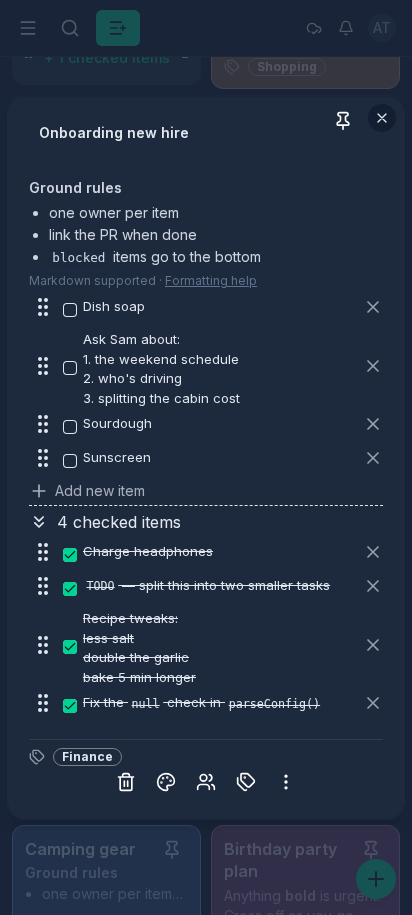
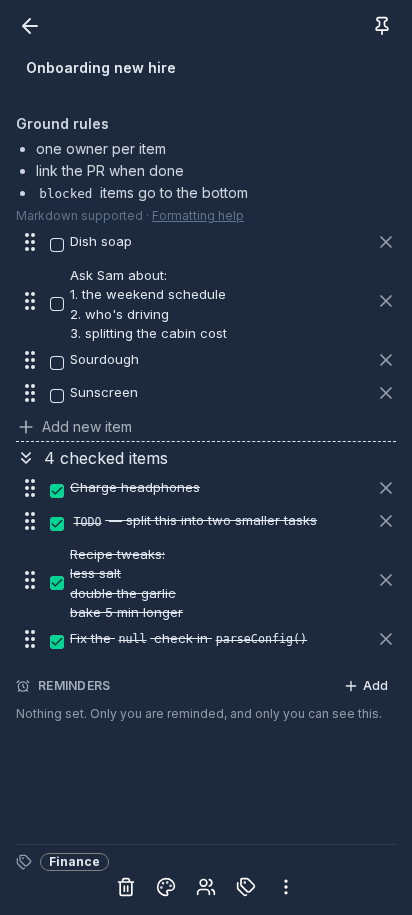
Chunk m2

diff --git a/CheckCheck/frontend/tests/e2e/touch-editor.spec.ts b/CheckCheck/frontend/tests/e2e/touch-editor.spec.ts
@@ -1,0 +1,150 @@
+/**
+ * Full-screen card editor on phones (docs/plans/MOBILE_EDITOR.md, M2).
+ *
+ * Runs in the "mobile" Playwright project (Pixel 7). Below the `sm` breakpoint
+ * the editor fills the screen and carries a header bar: a 44px back arrow
+ * (aria-label "Close") on the left, pin and sync state on the right, the title
+ * underneath. These tests guard that the close control and the title stay
+ * reachable however long the card is and while the keyboard is open.
+ *
+ * The keyboard is simulated by halving the viewport height after focusing an
+ * item. That is exactly what `interactive-widget=resizes-content` makes Android
+ * Chrome do; iOS Safari (which goes through useVisualViewport instead) needs
+ * the on-device check in the plan's section 5.
+ */
+import { test, expect, type Locator, type Page } from "@playwright/test";
+
+async function apiPost(page: Page, path: string, body: object) {
+  const res = await page.request.post(path, {
+    data: body,
+    headers: { "Content-Type": "application/json" },
+  });
+  expect(res.ok(), `POST ${path} failed: ${res.status()}`).toBeTruthy();
+  return res.json();
+}
+
+const editorDialog = (page: Page) => page.locator('[role="dialog"]:has(.checklist)');
+const titleField = (dialog: Locator) =>
+  dialog.locator('textarea[placeholder="Enter a checklist title..."]');
+const itemRows = (dialog: Locator) => dialog.getByTestId("item-row");
+
+test.describe("touch editor (full screen)", () => {
+  const cleanup: string[] = [];
+  test.afterEach(async ({ page }) => {
+    for (const id of cleanup) await page.request.delete(`/api/checklist/${id}`).catch(() => {});
+    cleanup.length = 0;
+    // Close the board's SSE stream before teardown (see checklist.spec.ts).
+    await page.goto("about:blank").catch(() => {});
+  });
+
+  async function openCard(page: Page, name: string, items = 0) {
+    const cl = await apiPost(page, "/api/checklist", { name });
+    cleanup.push(cl.id);
+    for (let i = 1; i <= items; i++) {
+      await apiPost(page, `/api/checklist/${cl.id}/item`, { text: `Item ${i}` });
+    }
+    await page.goto("/");
+    await page.waitForSelector("[data-testid=checklist-board]");
+    await page.locator("[data-testid=card-title]", { hasText: name }).first().tap();
+    const dialog = editorDialog(page);
+    await expect(dialog).toBeVisible({ timeout: 5_000 });
+    await expect(page).toHaveURL(/\/card\//);
+    // Measure only after the modal's scale-in animation has settled.
+    await dialog.evaluate((el) => Promise.all(el.getAnimations().map((a) => a.finished)));
+    if (items) await expect(itemRows(dialog)).toHaveCount(items, { timeout: 10_000 });
+    return dialog;
+  }
+
+  test("the editor fills the screen with a 44px back arrow clear of the pin", async ({ page }) => {
+    const dialog = await openCard(page, `TE-Header-${Date.now()}`);
+    const viewport = page.viewportSize()!;
+
+    const box = (await dialog.boundingBox())!;
+    expect(Math.round(box.x)).toBe(0);
+    expect(Math.round(box.y)).toBe(0);
+    expect(Math.round(box.width)).toBe(viewport.width);
+    expect(Math.round(box.height)).toBe(viewport.height);
+
+    const close = dialog.getByRole("button", { name: "Close" });
+    // Exactly one close control: the desktop X is not rendered on phones.
+    await expect(close).toHaveCount(1);
+    await expect(close).toBeInViewport();
+    const closeBox = (await close.boundingBox())!;
+    expect(closeBox.width).toBeGreaterThanOrEqual(44);
+    expect(closeBox.height).toBeGreaterThanOrEqual(44);
+
+    const pin = dialog.getByTestId("pin-button");
+    await expect(pin).toBeInViewport();
+    const pinBox = (await pin.boundingBox())!;
+    expect(pinBox.width).toBeGreaterThanOrEqual(44);
+    expect(pinBox.height).toBeGreaterThanOrEqual(44);
+    // Back arrow on the left, pin on the right, with a visible gap between.
+    expect(closeBox.x + closeBox.width).toBeLessThan(pinBox.x - 8);
+
+    // The title sits below the header bar, not under it.
+    const titleBox = (await titleField(dialog).boundingBox())!;
+    expect(titleBox.y).toBeGreaterThanOrEqual(closeBox.y + closeBox.height - 1);
+  });
+
+  test("tapping the back arrow closes the editor and returns to the board", async ({ page }) => {
+    const dialog = await openCard(page, `TE-Close-${Date.now()}`);
+    await dialog.getByRole("button", { name: "Close" }).tap();
+    await expect(editorDialog(page)).toHaveCount(0, { timeout: 5_000 });
+    await expect(page).not.toHaveURL(/\/card\//);
+  });
+
+  test("browser back closes the editor", async ({ page }) => {
+    await openCard(page, `TE-Back-${Date.now()}`);
+    await page.goBack();
+    await expect(editorDialog(page)).toHaveCount(0, { timeout: 5_000 });
+    await expect(page).not.toHaveURL(/\/card\//);
+  });
+
+  test("close and title stay visible at the bottom of a 40-item card", async ({ page }) => {
+    const dialog = await openCard(page, `TE-Long-${Date.now()}`, 40);
+    const last = itemRows(dialog).last();
+
+    await last.scrollIntoViewIfNeeded();
+    await expect(last).toBeInViewport();
+    await expect(dialog.getByRole("button", { name: "Close" })).toBeInViewport();
+    await expect(titleField(dialog)).toBeInViewport();
+  });
+
+  test("close and title stay visible with the keyboard open", async ({ page }) => {
+    const dialog = await openCard(page, `TE-Keyboard-${Date.now()}`, 40);
+    const lastRow = itemRows(dialog).last();
+
+    // Items are focus-swap: tapping the rendered text swaps in the textarea.
+    await lastRow.scrollIntoViewIfNeeded();
+    await lastRow.getByTestId("item-text-rendered").tap();
+    const last = lastRow.getByTestId("item-text-editor");
+    await expect(last).toBeFocused();
+
+    // Simulated keyboard: the layout viewport shrinks to half its height.
+    const full = page.viewportSize()!;
+    await page.setViewportSize({ width: full.width, height: Math.round(full.height / 2) });
+
+    await expect
+      .poll(async () => Math.round((await dialog.boundingBox())!.height))
+      .toBe(Math.round(full.height / 2));
+    await expect(dialog.getByRole("button", { name: "Close" })).toBeInViewport();
+    await expect(titleField(dialog)).toBeInViewport();
+    // The focused item is still reachable in the shrunken scroll region.
+    await last.scrollIntoViewIfNeeded();
+    await expect(last).toBeInViewport();
+    await expect(last).toBeFocused();
+  });
+
+  test("a long title is capped and the list below stays usable", async ({ page }) => {
+    const long = Array.from({ length: 12 }, (_, i) => `Very long title line ${i + 1}`).join(" ");
+    const dialog = await openCard(page, `TE-Title-${Date.now()} ${long}`, 5);
+    const title = titleField(dialog);
+    const viewport = page.viewportSize()!;
+
+    const titleBox = (await title.boundingBox())!;
+    // Four rows of text-xl, then it scrolls inside itself.
+    expect(titleBox.height).toBeLessThan(viewport.height / 4);
+    expect(await title.evaluate((el) => el.scrollHeight > el.clientHeight)).toBe(true);
+    await expect(itemRows(dialog).first()).toBeInViewport();
+  });
+});

diff --git a/CheckCheck/frontend/components/CheckList.vue b/CheckCheck/frontend/components/CheckList.vue
@@ -4,30 +4,49 @@
     :style="cardStyle"
     :class="[
       hasColor ? '' : 'bg-elevated',
-      previewModeActive ? 'p-3 sm:p-4 sm:min-h-32 shadow-sm hover:shadow-md hover:ring-1 hover:ring-default cursor-pointer' : 'p-5 sm:p-6',
-      editModeActive ? 'max-h-[92dvh] overflow-hidden' : '',
+      previewModeActive ? 'p-3 sm:p-4 sm:min-h-32 shadow-sm hover:shadow-md hover:ring-1 hover:ring-default cursor-pointer' : fullscreen ? '' : 'p-5 sm:p-6',
+      editModeActive && !fullscreen ? 'max-h-[92dvh] overflow-hidden' : '',
+      fullscreen
+        ? 'h-full overflow-hidden rounded-none border-0 px-4 pt-[max(0.25rem,env(safe-area-inset-top))] pb-[max(0.75rem,env(safe-area-inset-bottom))]'
+        : 'border border-default rounded-xl',
     ]"
-    class="checklist group/card relative list-drag-handle textareas-inherit-color flex flex-col gap-1 border border-default rounded-xl transition-shadow"
+    class="checklist group/card relative list-drag-handle textareas-inherit-color flex flex-col gap-1 transition-shadow"
   >
 
-    <!-- In the editor the modal renders its own close button at top-right, so
-         shift the pin left of it; on board previews there is no close button. -->
-    <CheckListFooterButtonPin :checkListId="checkListId" :scrollIntoViewOnPin="previewModeActive" :class="['absolute top-2 z-10', editModeActive ? 'right-10' : 'right-2']" />
-    <!-- Offline-write indicator (WI-11): lights up while this card has queued ops. -->
-    <CheckListSyncIndicator :checkListId="checkListId" />
+    <!-- Full-screen editor on phones (mobile editor M2): a header bar with the
+         caller's close control on the left (slot) and pin plus sync state on
+         the right, all 44px targets. Nothing here is absolutely positioned. -->
+    <div v-if="fullscreen" data-testid="editor-header" class="flex-none flex items-center gap-2 -mx-2">
+      <slot name="header-start" />
+      <div class="flex-1" />
+      <CheckListSyncIndicator :checkListId="checkListId" inline />
+      <CheckListFooterButtonPin
+        :checkListId="checkListId"
+        class="size-11 justify-center rounded-full"
+      />
+    </div>
+    <template v-else>
+      <!-- In the editor the modal renders its own close button at top-right, so
+           shift the pin left of it; on board previews there is no close button. -->
+      <CheckListFooterButtonPin :checkListId="checkListId" :scrollIntoViewOnPin="previewModeActive" :class="['absolute top-2 z-10', editModeActive ? 'right-10' : 'right-2']" />
+      <!-- Offline-write indicator (WI-11): lights up while this card has queued ops. -->
+      <CheckListSyncIndicator :checkListId="checkListId" />
+    </template>
 
     <div v-if="!editModeActive" data-testid="card-title" class="flex-none pr-8 text-base font-semibold leading-snug break-words line-clamp-2" v-html="highlightText(checkList!.name, searchQuery)" />
     <UTextarea
       v-if="editModeActive"
       :autofocus="autofocusTitle"
       autoresize
+      :maxrows="4"
       variant="none"
       :rows="0"
       :padded="false"
       :disabled="!canEdit"
       placeholder="Enter a checklist title..."
       v-model="localName"
-      class="flex-none w-full pr-16 text-xl sm:text-2xl font-semibold"
+      :class="fullscreen ? '' : 'pr-16'"
+      class="flex-none w-full text-xl sm:text-2xl font-semibold"
       @focus="onFieldFocus('name')"
       @blur="onFieldBlur('name')"
     />
@@ -136,6 +155,9 @@ const props = defineProps({
   },
   editModeActive: { type: Boolean, default: false },
   previewModeActive: { type: Boolean, default: false },
+  // Full-screen editor on phones (mobile editor M2): render the header bar
+  // (slot `header-start` plus pin and sync state) instead of the floating pin.
+  fullscreen: { type: Boolean, default: false },
 });
 
 // Autofocus the title only when this editor is opening a card that was JUST

diff --git a/CheckCheck/frontend/components/CheckListEditModal.vue b/CheckCheck/frontend/components/CheckListEditModal.vue
@@ -2,14 +2,18 @@
   <UModal
     v-model:open="open"
     title="Opened Checklist Editor"
-    :ui="{
-      content: 'max-w-2xl w-[calc(100vw-1rem)] sm:w-full max-h-[92dvh] rounded-2xl ring ring-default overflow-hidden',
-    }"
+    :fullscreen="isMobile"
+    :ui="{ content: isMobile ? MOBILE_CONTENT_CLASS : DESKTOP_CONTENT_CLASS }"
   >
     <template #content>
-      <div class="relative flex flex-col max-h-[92dvh] overflow-hidden overscroll-contain">
-        <!-- Explicit close affordance (the editor otherwise fills the modal). -->
+      <div
+        :class="isMobile ? 'h-full' : 'max-h-[92dvh]'"
+        class="relative flex flex-col overflow-hidden overscroll-contain"
+      >
+        <!-- Explicit close affordance (the editor otherwise fills the modal).
+             On phones the editor's own header bar carries a back arrow instead. -->
         <UButton
+          v-if="!isMobile"
           icon="i-lucide-x"
           color="neutral"
           variant="ghost"
@@ -22,7 +26,21 @@
              mount), so it needs its own Suspense boundary. Keyed by id so
              reopening a different card always remounts with fresh data. -->
         <Suspense>
-          <CheckList :key="checkListId" :checkListId="checkListId" :editModeActive="true" />
+          <CheckList :key="checkListId" :checkListId="checkListId" :editModeActive="true" :fullscreen="isMobile">
+            <template #header-start>
+              <UButton
+                icon="i-lucide-arrow-left"
+                color="neutral"
+                variant="ghost"
+                aria-label="Close"
+                data-testid="editor-back"
+                class="size-11 justify-center rounded-full"
+                :ui="{ leadingIcon: 'size-6' }"
+                :style="{ color: 'inherit' }"
+                @click="open = false"
+              />
+            </template>
+          </CheckList>
           <template #fallback>
             <div class="flex items-center justify-center min-h-48 p-10 text-muted">
               <UIcon name="i-lucide-loader-circle" class="size-6 animate-spin" />
@@ -35,12 +53,24 @@
 </template>
 
 <script setup lang="ts">
+import { useMediaQuery } from "@vueuse/core";
+
 const open = defineModel<boolean>("open", { default: false });
 
 // Mirror the visual viewport into --vv-height/--vv-top while the editor is
 // open, so it can size itself against the on-screen keyboard (mobile editor
 // plan, M1). The modal stays mounted after closing, hence the getter.
 useVisualViewport(() => open.value);
+
+// Below `sm` the editor is a full-screen page with a header bar (mobile editor
+// plan, M2). It is pinned to the visual viewport, so with the keyboard open it
+// ends at the keyboard edge instead of reaching behind it. The variables are
+// removed when nothing holds them, hence the fallbacks.
+const isMobile = useMediaQuery("(max-width: 639px)");
+const DESKTOP_CONTENT_CLASS =
+  "max-w-2xl w-[calc(100vw-1rem)] sm:w-full max-h-[92dvh] rounded-2xl ring ring-default overflow-hidden";
+const MOBILE_CONTENT_CLASS =
+  "top-[var(--vv-top,0px)] bottom-auto h-[var(--vv-height,100dvh)] w-full max-w-none rounded-none overflow-hidden";
 
 defineProps({
   checkListId: {

diff --git a/CheckCheck/frontend/components/CheckListSyncIndicator.vue b/CheckCheck/frontend/components/CheckListSyncIndicator.vue
@@ -1,11 +1,13 @@
 <template>
   <!-- A subtle corner badge shown while this card has undrained offline writes
        (WI-11 per-card pending indicator; feeds the WI-14 global status UI). It
-       floats over the top-left corner so it never overlaps the title text. -->
+       floats over the top-left corner so it never overlaps the title text.
+       `inline` drops the float for the full-screen editor's header bar. -->
   <UTooltip v-if="pending" :text="online ? 'Syncing changes…' : 'Changes saved offline — will sync when online'">
     <span
       data-testid="card-sync-pending"
-      class="absolute -top-2 -left-2 z-10 flex h-5 w-5 items-center justify-center rounded-full bg-elevated text-dimmed shadow ring-1 ring-default"
+      :class="inline ? 'flex-none' : 'absolute -top-2 -left-2 z-10'"
+      class="flex h-5 w-5 items-center justify-center rounded-full bg-elevated text-dimmed shadow ring-1 ring-default"
     >
       <UIcon
         :name="online ? 'i-lucide-refresh-cw' : 'i-lucide-cloud-off'"
@@ -19,7 +21,7 @@
 import { isLocalFirstEnabled } from "@/utils/localFirst";
 import { useOutbox } from "@/composables/useOutbox";
 
-const props = defineProps<{ checkListId: string }>();
+const props = defineProps<{ checkListId: string; inline?: boolean }>();
 
 // Flag-off there is no outbox, so never mount the composable / indicator.
 const localFirst = isLocalFirstEnabled();

diff --git a/CheckCheck/frontend/tests/e2e/card-editor.spec.ts b/CheckCheck/frontend/tests/e2e/card-editor.spec.ts
@@ -87,4 +87,24 @@ test.describe("card editor modal", () => {
     await expect(editorDialog(page)).toHaveCount(0, { timeout: 5_000 });
     await expect(page).not.toHaveURL(/\/card\//);
   });
+
+  // The full-screen phone layout (mobile editor M2, touch-editor.spec.ts) is
+  // scoped below `sm`. On desktop the editor stays a centered modal with the
+  // floating X and pin, and no header bar.
+  test("desktop editor stays a centered modal, not full screen", async ({ page }) => {
+    await page.getByRole("button", { name: "New Check List" }).click();
+    const dialog = editorDialog(page);
+    await expect(dialog).toBeVisible();
+
+    const viewport = page.viewportSize()!;
+    const box = (await dialog.boundingBox())!;
+    expect(box.width).toBeLessThan(viewport.width * 0.8);
+    expect(box.x).toBeGreaterThan(0);
+    expect(box.y).toBeGreaterThan(0);
+    await expect(dialog.getByTestId("editor-header")).toHaveCount(0);
+    await expect(dialog.getByRole("button", { name: "Close" })).toHaveCount(1);
+
+    await dialog.getByRole("button", { name: "Close" }).click();
+    await expect(editorDialog(page)).toHaveCount(0, { timeout: 5_000 });
+  });
 });

diff --git a/docs/plans/MOBILE_EDITOR.md b/docs/plans/MOBILE_EDITOR.md
@@ -1,6 +1,6 @@
 # Plan: mobile card editor (closable header, keyboard-aware layout, visible suggestions)
 
-**Status:** M1 done (2026-09-18, uncommitted). M2, M3, M4 open.
+**Status:** M1 done (2026-09-18). M2 done (2026-09-18, uncommitted). M3, M4 open.
 
 **Deviations so far:**
 
@@ -12,6 +12,22 @@
 - M1: `useVisualViewport(active)` takes an optional getter. The editor modal stays
   mounted after closing (`pages/index.vue` keeps the last card id), so it passes
   `() => open.value` and only holds the listeners while the editor is open.
+- M2: `CheckList.vue` got both shapes the plan offered, combined: a
+  `fullscreen` prop switches to the header bar, and a `#header-start` slot lets
+  the modal put its own back arrow in it. Pin and sync state are rendered by
+  `CheckList.vue` inside the bar. `CheckListSyncIndicator` gained an `inline`
+  prop (no corner float) for that.
+- M2: the title cap uses `UTextarea`'s `maxrows="4"` instead of `max-h` plus
+  `overflow-y-auto`. Autoresize sets an inline height, so a CSS `max-h` would
+  fight it; `maxrows` caps the rows and leaves the textarea scrollable.
+- M2: the safe-area paddings are `max(<normal padding>, env(safe-area-inset-*))`.
+  The viewport meta has no `viewport-fit=cover`, so the insets are 0 today and
+  the browser keeps the page out of the notch itself. The paddings only start
+  to matter if `viewport-fit=cover` is ever added. It was not added here
+  because it would affect every page, not just the editor.
+- M2: on desktop the rendered styles are unchanged, but the card root's
+  `border border-default rounded-xl` moved from the static `class` to the
+  bound one, so the class attribute order differs.
 
 Two pieces of user feedback, same root cause:
 
